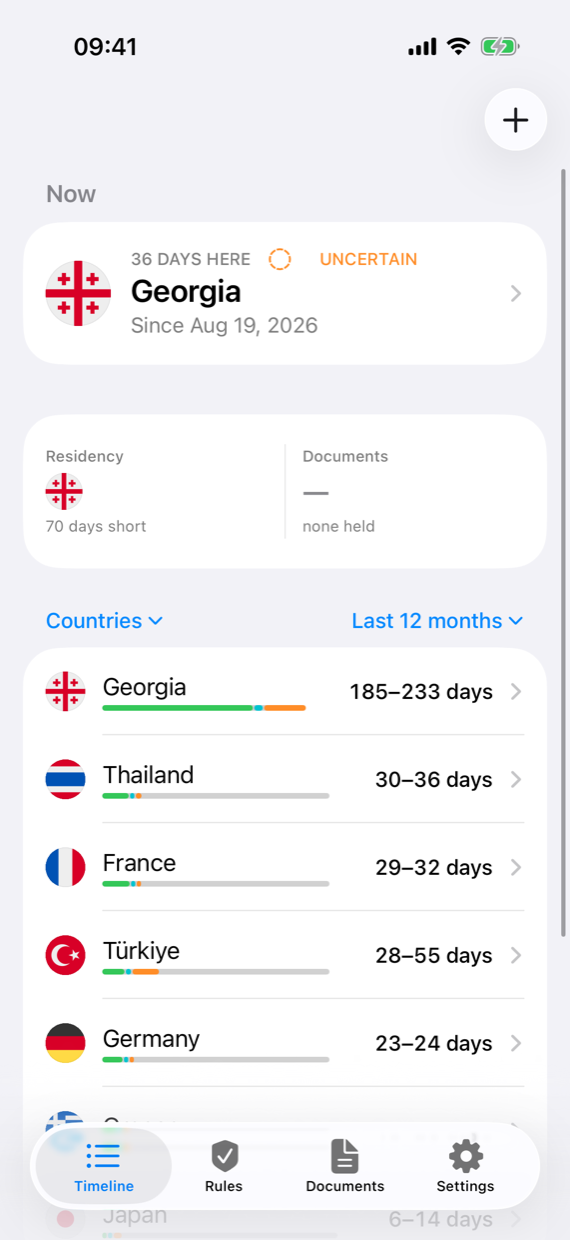
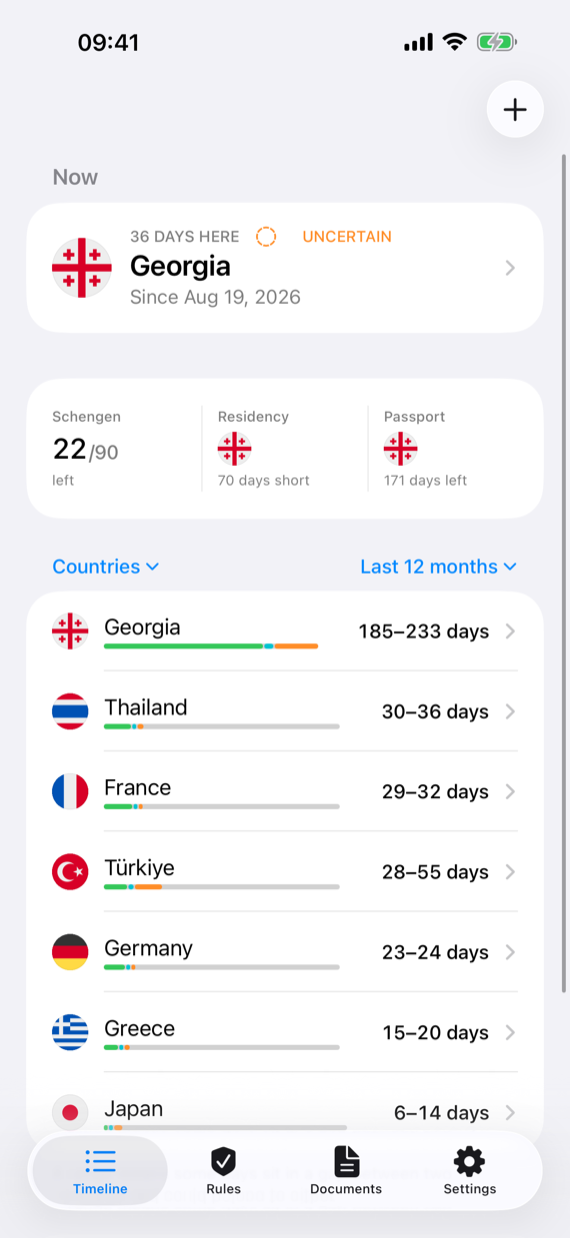
Screenshots with documents in them
Retaken on a 6.9-inch simulator with a passport and two visas, so the
Rules screen shows a Schengen count instead of asking for a passport,
and the Pro page can show the three screens it is selling.

Claude-Session: https://claude.ai/code/session_01WU8VTaHMtVLH5tU1qtQYv2

diff --git a/index.html b/index.html
@@ -46,17 +46,17 @@
 
     <section class="gallery" aria-label="Screenshots">
       <figure>
-        <img src="./shots/01-timeline.png" width="570" height="1240" loading="lazy"
-             alt="The timeline: the country you are in now, then every country by days spent, each with a range rather than a single number.">
+        <img src="./shots/01-timeline.png" width="570" height="1238" loading="lazy"
+             alt="The timeline: the country you are in now, Schengen days left, then every country by days spent, each with a range rather than a single number.">
         <figcaption>Every country, with the range the evidence actually supports.</figcaption>
       </figure>
       <figure>
-        <img src="./shots/03-country.png" width="570" height="1240" loading="lazy"
+        <img src="./shots/02-country.png" width="570" height="1238" loading="lazy"
              alt="A country screen: 284 to 343 days, broken into confirmed, inferred and uncertain, with the stays beneath.">
         <figcaption>And where each of those days came from.</figcaption>
       </figure>
       <figure>
-        <img src="./shots/02-trips.png" width="570" height="1240" loading="lazy"
+        <img src="./shots/03-trips.png" width="570" height="1238" loading="lazy"
              alt="The same days grouped as trips, each with its dates and how many countries it crossed.">
         <figcaption>The same days read as journeys instead of totals.</figcaption>
       </figure>

diff --git a/pro/index.html b/pro/index.html
@@ -46,6 +46,24 @@
         </div>
       </div>
 
+      <div class="gallery">
+        <figure>
+          <img src="../shots/04-rules.png" width="570" height="1238" loading="lazy"
+               alt="The Rules screen: 22 Schengen days left of 90, and the 183-day count for each country this tax year.">
+          <figcaption>The counts are free. Being told before they run out is Pro.</figcaption>
+        </figure>
+        <figure>
+          <img src="../shots/05-documents.png" width="570" height="1238" loading="lazy"
+               alt="The Documents screen: a passport expiring in March 2027, a multiple-entry visa with 2,777 days left, and an expired e-Visa.">
+          <figcaption>Documents without limit, each with its deadline.</figcaption>
+        </figure>
+        <figure>
+          <img src="../shots/06-destinations.png" width="570" height="1238" loading="lazy"
+               alt="Where can I go: countries grouped by what they ask of this passport, with Schengen days left shown against Austria.">
+          <figcaption>Where you can go, with today's Schengen days beside it.</figcaption>
+        </figure>
+      </div>
+
       <h2>What stays free</h2>
       <ul>
         <li>Reading the whole photo library, on every launch, however large it is.</li>
